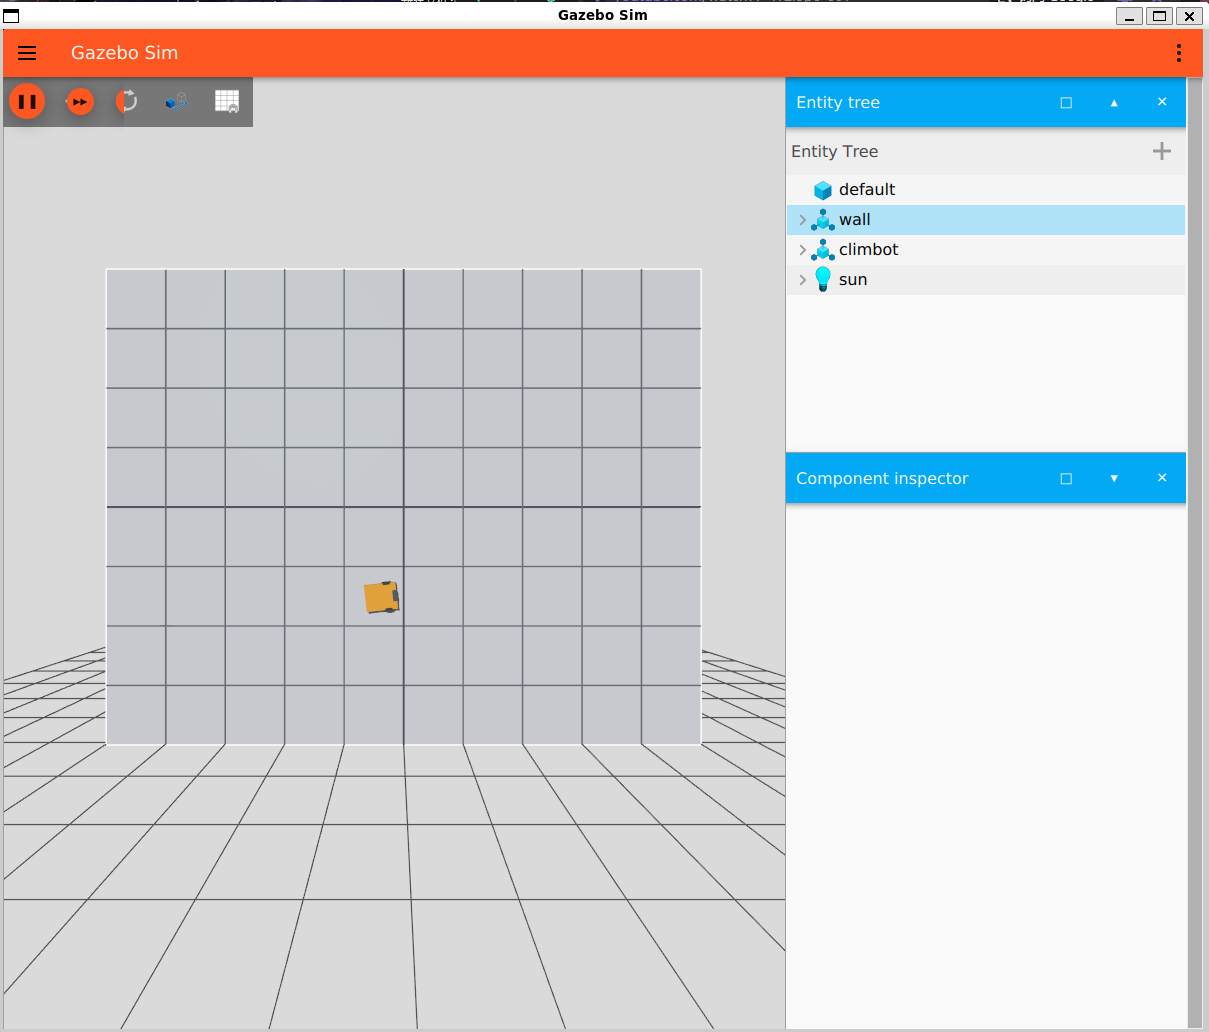
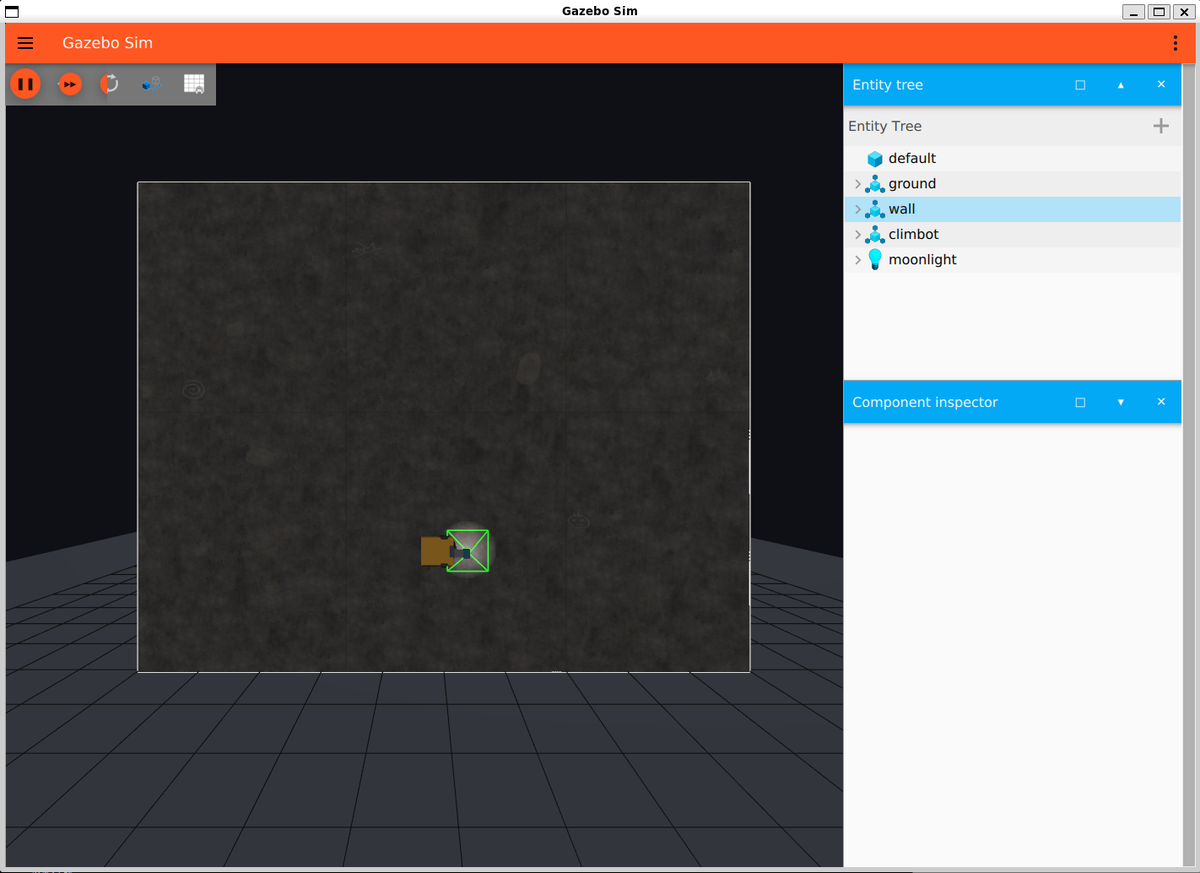
Refresh the README screenshots and show a run in motion
Replace both existing screenshots with current captures, and add two things a
still frame cannot carry.

A 5 s GIF of Gazebo and RViz side by side, sampled at one frame every 0.5 s so
it plays back at real speed. Undithered at 1000 px it is 309 KB; the same clip
with Floyd-Steinberg dithering is 950 KB and looks no better on this content,
which is smooth UI over a dark textured wall.

The P2 mosaic comparison, inlined at 2400 px and linked to the full 7887 x 4096
encoding. The README column is around 880 px wide, so the full resolution buys
nothing inline and only costs load time, but clicking through is the point of
the abs-difference panel.

The new RViz capture happens to be sitting in Paused mid-task, which documents
the pause control that landed in the previous commit: the segment count, task
id and archive run are all still live behind it.

Claude-Session: https://claude.ai/code/session_01CEyov6A2fjGw3vcPPeBouV

diff --git a/README.md b/README.md
@@ -137,9 +137,16 @@ ros2 launch climbot_bringup coverage_mission.launch.py \
 其中包含原始图像、每张图的拍摄位姿、相机标定和 `manifest.json`。想让它停一下再接着跑，按
 **Pause**，恢复按 **Resume**——任务和归档都不会因此结束；确定不跑了才按 **Stop**。
 
+![Gazebo 与 RViz 中同步执行的覆盖任务](docs/images/coverage_run.gif)
+
+左边是 Gazebo，右边是 RViz；机器人正在跑一条梯形区的横向弓字路径，面板同步显示段进度和已保存
+的照片数。
+
 ![RViz 中执行覆盖任务](docs/images/rviz_coverage_task.png)
 
-绿色虚线是安全工作区，橙色是选定任务区，蓝线是机器人中心路径，黄色带是相机预测足迹。
+绿色虚线是安全工作区，橙色是选定任务区，蓝线是机器人中心路径，黄色带是相机预测足迹。这张是
+纵向扫描（上面的动图是横向），任务正处于 **Paused**：段进度、任务号和归档 run 都还在，Resume
+会从当前位姿继续同一段。
 
 改成纵向扫描：
 
@@ -225,6 +232,11 @@ ros2 run climbot_mosaic build_wall_mosaic \
 `mosaic_optimized.tif` 是经过第 3 步对齐后拼出的结果。两者使用同一批照片，因此可以直接比较。
 `coverage_count.tif` 中为零的位置表示相机从未拍到，那些区域不能当作有效墙面图。需要检查诊断墙时，
 继续运行[真值评价与原尺寸检查](docs/OPERATION.md#诊断墙后验检查)。
+
+[![pose-only、optimized 与两者差值的三联对照](docs/images/mosaic_comparison.jpg)](docs/images/mosaic_comparison_full.jpg)
+
+左起分别是 pose-only、optimized 和两者的绝对差值。点开可看原尺寸（7887 × 4096）。差值图上仍然
+发亮的位置就是全局优化真正改动过的地方，其余接近全黑说明两条路径在那里本来就一致。
 
 ## 文档导航
 
